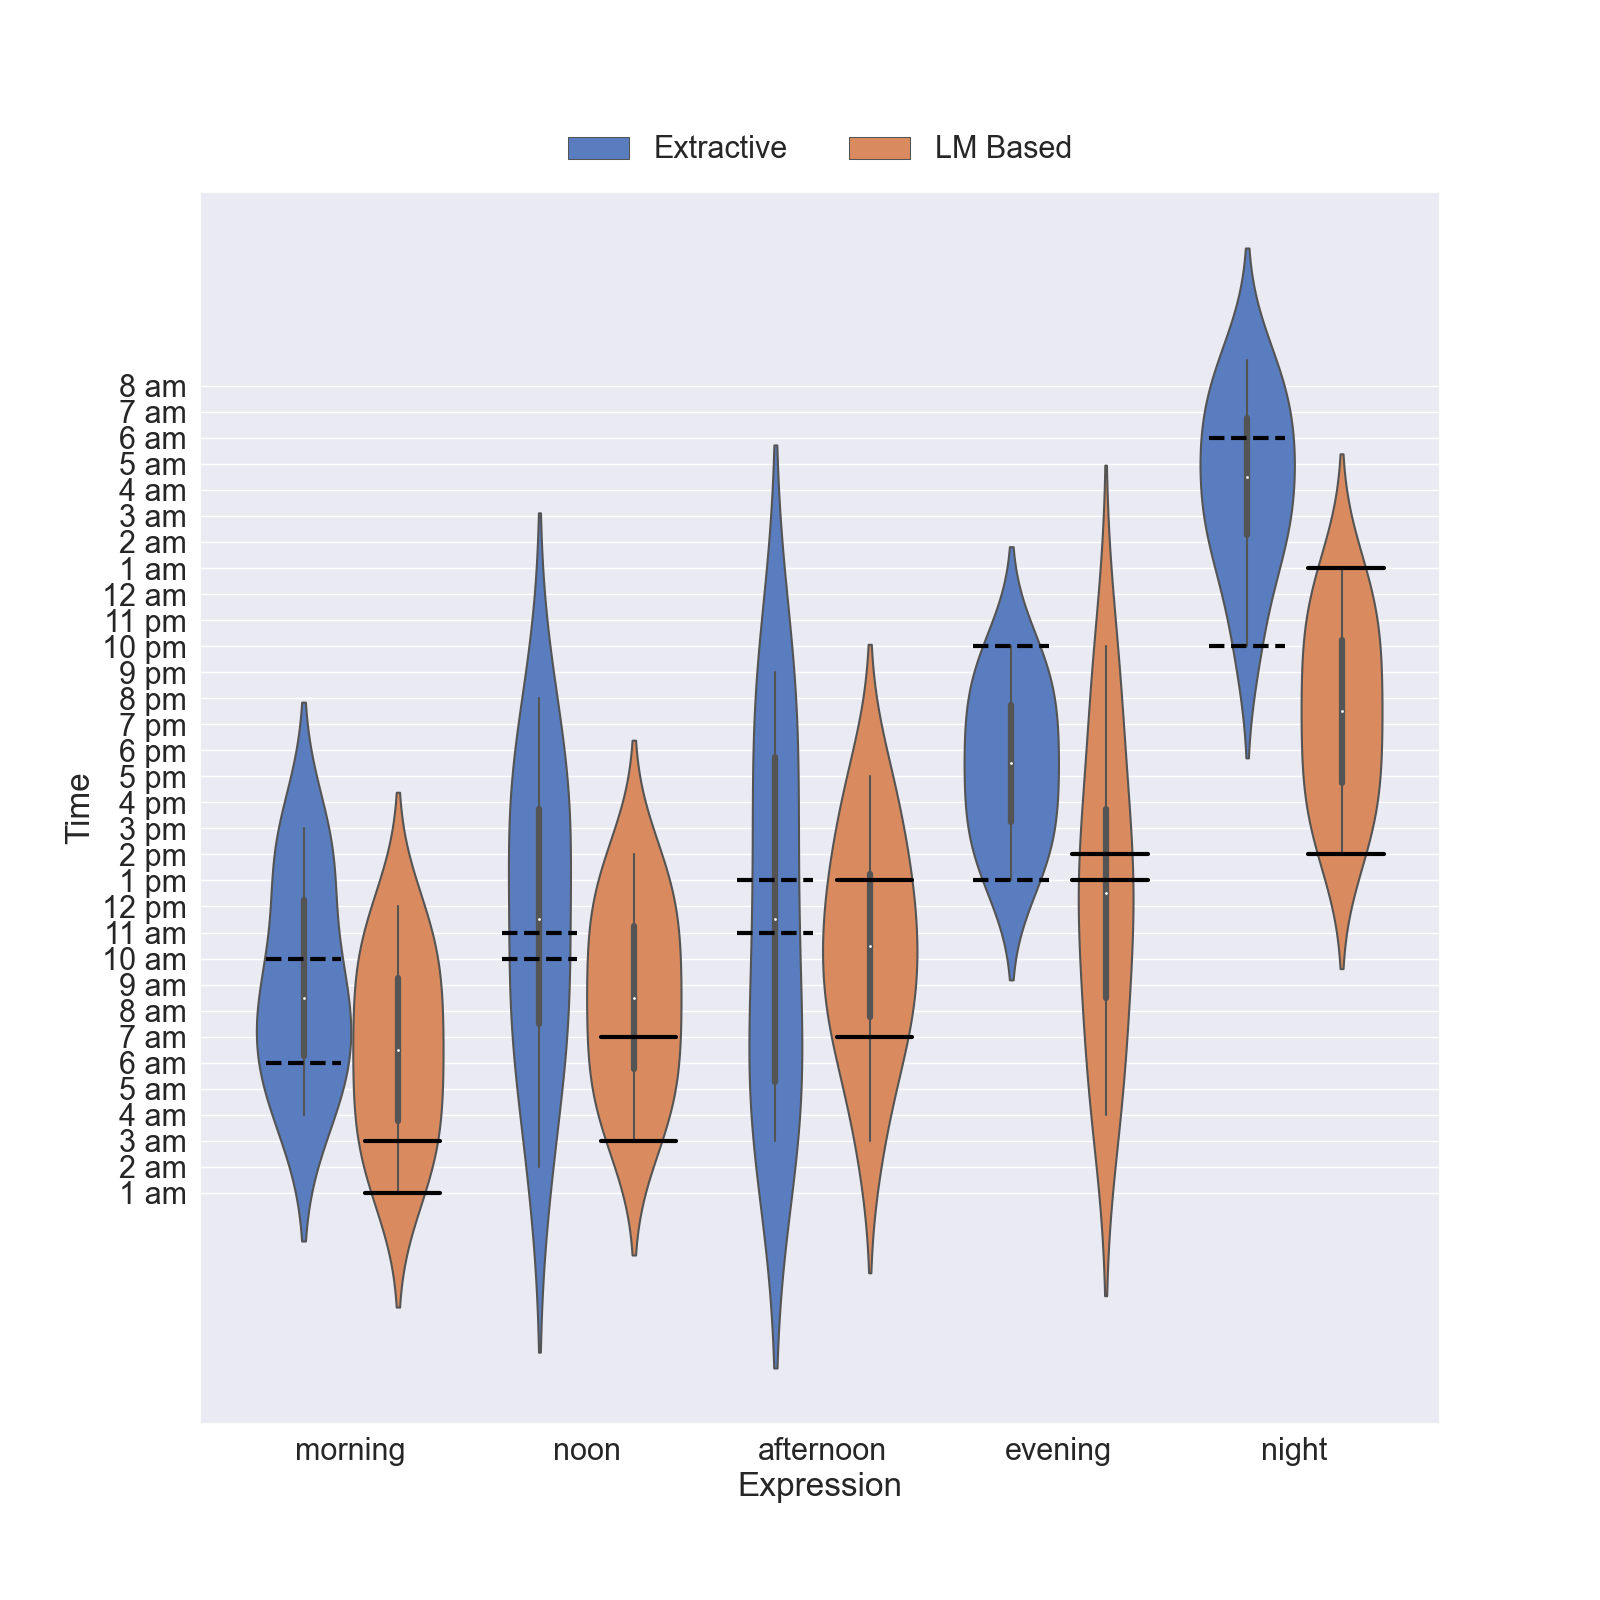
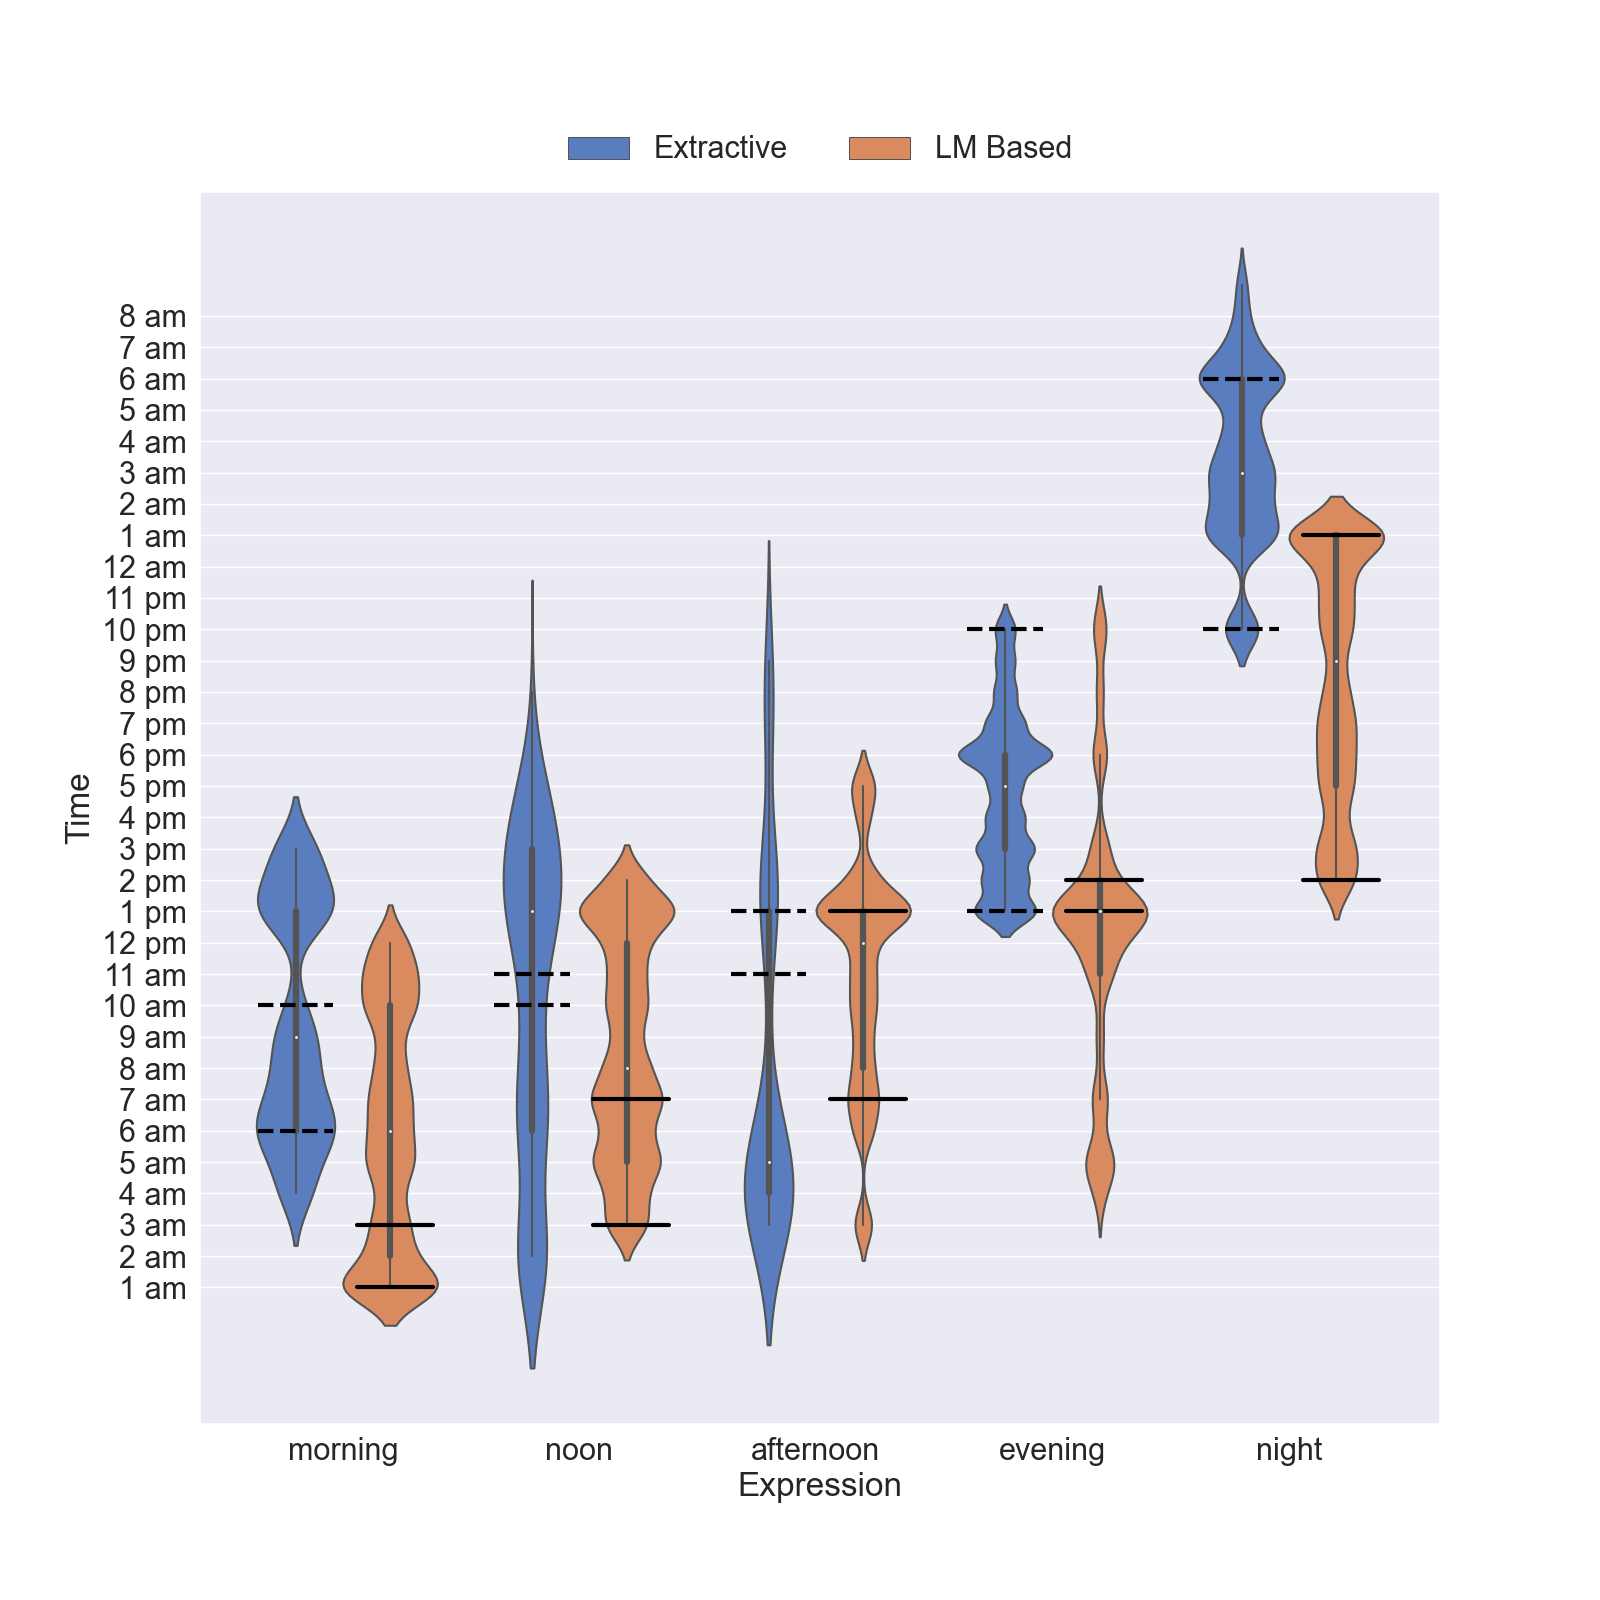
Fix bug in the plots

diff --git a/src/human/read_batch_results.py b/src/human/read_batch_results.py
@@ -1,5 +1,6 @@
 import os
 import json
+import logging
 import datetime
 import dateutil
 import argparse
@@ -13,6 +14,8 @@ from collections import Counter, defaultdict
 from matplotlib.collections import PolyCollection
 
 pd.set_option('max_columns', None)
+logging.basicConfig(format='%(asctime)s - %(levelname)s - %(name)s - %(message)s', level=logging.INFO)
+logger = logging.getLogger(__name__)
 
 
 def main():
@@ -29,23 +32,26 @@ def main():
 
             if os.path.exists(path):
                 df = pd.read_csv(path)
-                print(country, lang)
+                logger.info((country, lang))
                 curr, comments = load_batch_results(country, lang, df)
                 f_out.write(json.dumps(curr, ensure_ascii=False) + "\n")
-                print(comments)
-                print("\n")
+                logger.info(comments)
                 gold[country] = curr["main"]
 
-    plot_by_exp(gold)
-    plt.grid()
+    logger.info(f"Number of annotations: "
+                f"{dict([(country, sum(gold[country]['morning']['start'].values())) for country in gold.keys()])}")
+    fig, ax = plt.subplots(figsize=(5, 6), constrained_layout=True)
+    ax.set_axisbelow(True)
+    ax.yaxis.grid(color='gray', linestyle='dashed')
+    plot_by_exp(ax, gold)
+    fig.savefig(f"output/plots/gold_standard.png")
     plt.show()
 
 
-def plot_by_exp(distribution):
+def plot_by_exp(ax, distribution):
     """
     Plot the distribution of times
     """
-    fig, ax = plt.subplots(figsize=(8, 8), constrained_layout=True)
     expressions = ["morning", "noon", "afternoon", "evening", "night"]
     countries = list(distribution.keys())
 
@@ -96,22 +102,23 @@ def plot_by_exp(distribution):
     ax.autoscale()
 
     # Set the times
-    times = range(1, 36)
+    times = range(1, 38)
     ax.set_yticks(times)
     num_to_time = {12: "12 pm", 24: "12 am"}
     num_to_time.update({i: f"{i} am" for i in range(1, 12)})
     num_to_time.update({i: f"{i - 12} pm" for i in range(13, 24)})
     num_to_time.update({i: f"{i - 24} am" for i in range(25, 36)})
+    num_to_time.update({i: f"{i - 24} pm" for i in range(36, 48)})
     ax.set_yticklabels([num_to_time[num] for num in ax.get_yticks()], fontsize=10)
 
     ax.set_xticks([i + len(countries) * width for i in range(len(expressions))])
-    ax.set_xticklabels(expressions, fontsize=14)
+    ax.set_xticklabels(expressions, fontsize=10)
 
     # Create the legend
     legend_items = [Patch(
         facecolor=colors[country], hatch=hatches[country], edgecolor="black",
         label=country, ls="solid", lw=.5) for country in countries]
-    plt.legend(handles=legend_items, loc='upper left', fontsize=14, ncol=4)
+    plt.legend(handles=legend_items, loc='upper left', fontsize=9, ncol=4)
 
 
 def to_24hr(t):
@@ -155,7 +162,7 @@ def correct_am_pm(curr_data, exp, edge):
         else:
             new_times.extend([t_orig] * cnt)
 
-    print(f"{exp[0].upper()}{exp[1:]} {edge} corrected: {corrected} ({len(corrected)} items)")
+    logger.debug(f"{exp[0].upper()}{exp[1:]} {edge} corrected: {corrected} ({len(corrected)} items)")
     return new_times
 
 
@@ -168,13 +175,7 @@ def load_batch_results(country, lang, df):
     # Find how many rows we have in other languages and remove them if most of the annotations
     # are from the same language (e.g. US-en) but not if there is diversity
     languages = Counter(list(df['Answer.lang'].values))
-    print(f"Languages: {languages}")
-
-    if languages.most_common(1)[0][1] > 0.9 * (sum(languages.values())):
-        non_lang = df.loc[df["Answer.lang"] != lang.upper()]
-        df = df[~df.index.isin(non_lang.index)]
-        print(f"Removed {len(non_lang)} annotations not in {lang}: {Counter(list(non_lang['Answer.lang'].values))}")
-        languages = dict(languages.most_common(1))
+    logger.info(f"Languages: {languages}")
 
     # Load the data for the expressions in this list
     data = {exp: {"start": [h if ":" in h else f"{h}:00" for h in df[f"Answer.{exp}_start"].dropna().values],

diff --git a/temp/draw_boxes.py b/temp/draw_boxes.py
@@ -34,23 +34,25 @@ def main():
             if model == "lm_based":
                 for exp in grd.keys():
                     per_exp = grd[exp]
-                    grd[exp] = {h: int(score * 10000) for h, score in per_exp.items()}
+                    minimum = min([score for h, score in per_exp.items() if h not in {"start", "end"}])
+                    z = 1.0 / minimum
+                    grd[exp] = {h: int(score * z) for h, score in per_exp.items()}
 
             start_and_end_times.append(start_end)
             grounding.append(grd)
 
     labels = [l for l in labels if l in grounding[0]]
     title = f"Grounding of Time Expressions in {args.lang}"
-    ax = draw_violin(grounding, labels, start_and_end_times)
+    ax = draw_box(grounding, labels)
     fig = ax.get_figure()
     fig.savefig(f"output/plots/{args.lang}.png")
     fig.suptitle(title, fontsize=24)
     fig.show()
 
 
-def draw_violin(grounding, labels, start_end_times, start_end_in_xaxis=False):
+def draw_box(grounding, labels):
     """
-    Draw a violin graph
+    Draw a box graph
     """
     models = ["Extractive", "LM Based"]
     d = {"Model": [], "Expression": [], "Time": []}
@@ -65,7 +67,7 @@ def draw_violin(grounding, labels, start_end_times, start_end_in_xaxis=False):
                     d["Time"].append(time)
 
     df = pd.DataFrame.from_dict(d)
-    ax = sns.violinplot(x="Expression", y="Time", hue="Model", data=df, order=labels, palette="muted")
+    ax = sns.boxplot(x="Expression", y="Time", hue="Model", data=df, order=labels, palette="muted")
     sns.move_legend(ax, "lower center", bbox_to_anchor=(.5, 1), ncol=3, title=None, frameon=False)
 
     # Set the times
@@ -76,28 +78,6 @@ def draw_violin(grounding, labels, start_end_times, start_end_in_xaxis=False):
     num_to_time.update({i: f"{i-12} pm" for i in range(13, 24)})
     num_to_time.update({i: f"{i - 24} am" for i in range(25, 36)})
     ax.set_yticklabels([num_to_time[num] for num in ax.get_yticks()])
-
-    # Annotate start and end times
-    if start_end_in_xaxis:
-        ext_start = {exp: num_to_time[start_end_times[0][exp][0]] for exp in labels}
-        ext_end = {exp: num_to_time[start_end_times[0][exp][1]] for exp in labels}
-        lm_start = {exp: num_to_time[start_end_times[1][exp][0]] for exp in labels}
-        lm_end = {exp: num_to_time[start_end_times[1][exp][1]] for exp in labels}
-        ax.set_xticklabels([f"{exp}:\nExt:{ext_start[exp]}-{ext_end[exp]}\nLM:{lm_start[exp]}-{lm_end[exp]}"
-                            for exp in labels])
-    else:
-        width = 0.42
-        base_x = -0.2
-        linestyles = ["dashed", "solid"]
-        for model_i, curr_start_end_times in enumerate(start_end_times):
-            for exp_i, exp in enumerate(labels):
-                start, end = curr_start_end_times[exp]
-                ax.plot([base_x + width * (2.38 * exp_i + model_i) - 0.16,
-                         base_x + width * (2.38 * exp_i + model_i) + 0.16],
-                        [start, start], color="black", linewidth=3, linestyle=linestyles[model_i])
-                ax.plot([base_x + width * (2.38 * exp_i + model_i) - 0.16,
-                         base_x + width * (2.38 * exp_i + model_i) + 0.16],
-                        [end, end], color="black", linewidth=3, linestyle=linestyles[model_i])
 
     return ax
 
